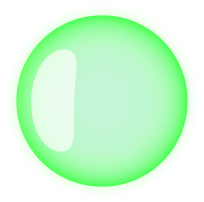
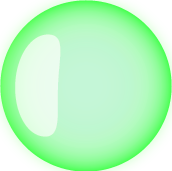
refined bubbles

diff --git a/classes/world.class.js b/classes/world.class.js
@@ -49,11 +49,11 @@ class World {
     }
 
     setFloor() {
-        if(this.character.state == 'swim left' && this.floor.speed > 0) {
+        if (this.character.state == 'swim left' && this.floor.speed > 0) {
             this.floor.turnAround();
         } else {
-            if(this.floor.speed < 0) {
-                this.floor.turnAround();            
+            if (this.floor.speed < 0) {
+                this.floor.turnAround();
             }
         }
     }
@@ -72,7 +72,7 @@ class World {
             this.character.clearState();
             this.character.state = 'hit';
             this.keyboard.toggleControls(true);
-            if(enemy instanceof Pufferfish) {
+            if (enemy instanceof Pufferfish) {
                 this.character.animate('hurt poisoned');
                 this.character.hit(4);
                 this.stats[0].update(this.character.health);
@@ -90,6 +90,8 @@ class World {
             if (bubble.isColliding(enemy)) {
                 enemy.hit(bubble.getDamage());
                 bubble.pop(); // Sound und, falls vorhanden, Animation
+                this.bubbles = removeAt(i, this.bubbles);
+            } else if (bubble.y < 0) { // falls keine Kollision, jedoch Blase über Bildrand
                 this.bubbles = removeAt(i, this.bubbles);
             }
         }

diff --git a/classes/bubble.class.js b/classes/bubble.class.js
@@ -3,11 +3,10 @@ class Bubble extends Movable {
     height = 32;
     damage = 4;
     speed = 3 + 3;
-    // Geschwindigkeit festlegen: x konstant, y erst negativ, dann nach oben beschleunigt
 
     constructor(x, y, isToxic, goLeft) {
         if (isToxic) {
-            super().loadImage('../img/sharkie/4.Attack/Bubble trap/Poisoned Bubble.png'); // Größe an normale Bubble anpassen
+            super().loadImage('../img/sharkie/4.Attack/Bubble trap/Poisoned Bubble.png');
         } else {
             super().loadImage('../img/sharkie/4.Attack/Bubble trap/Bubble.png');
         }
@@ -35,7 +34,6 @@ class Bubble extends Movable {
     driftXY(speed) {
         let counter = 0;
         setInterval(() => {
-
             this.x += speed * (1 - (counter/250));
             this.y += 1.8 * (1 - (counter/40));
             counter++;

diff --git a/classes/stats.class.js b/classes/stats.class.js
@@ -1,10 +1,7 @@
 class Stats extends Visible {
-    type;
-
-    constructor(x, y, type) { // type = 'coins', 'health' oder 'poison'
+    constructor(x, y, type) {
         super().loadImage(`./img/marks/green/${type}/6.png`);
-        this.loadImages(type, `./img/marks/green/${type}/`, 6);
-        this.type = type;
+        this.loadImages('bar', `./img/marks/green/${type}/`, 6);
         this.x = x;
         this.y = y;
         this.width = 188;
@@ -14,7 +11,7 @@ class Stats extends Visible {
 
     update(value) {
         let index = this.resolveImageIndex(value);
-        this.img = this.imageCache[`${this.type}`][index];
+        this.img = this.imageCache['bar'][index];
     }
 
     resolveImageIndex(value) {

diff --git a/classes/character.class.js b/classes/character.class.js
@@ -129,6 +129,7 @@ class Character extends Movable {
         }
         if (isToxic) {
             this.poison -= 20;
+            this.world.stats[2].update(this.poison);
             this.playAnimationOnce('bubble toxic');
         } else {
             this.playAnimationOnce('bubble normal');
